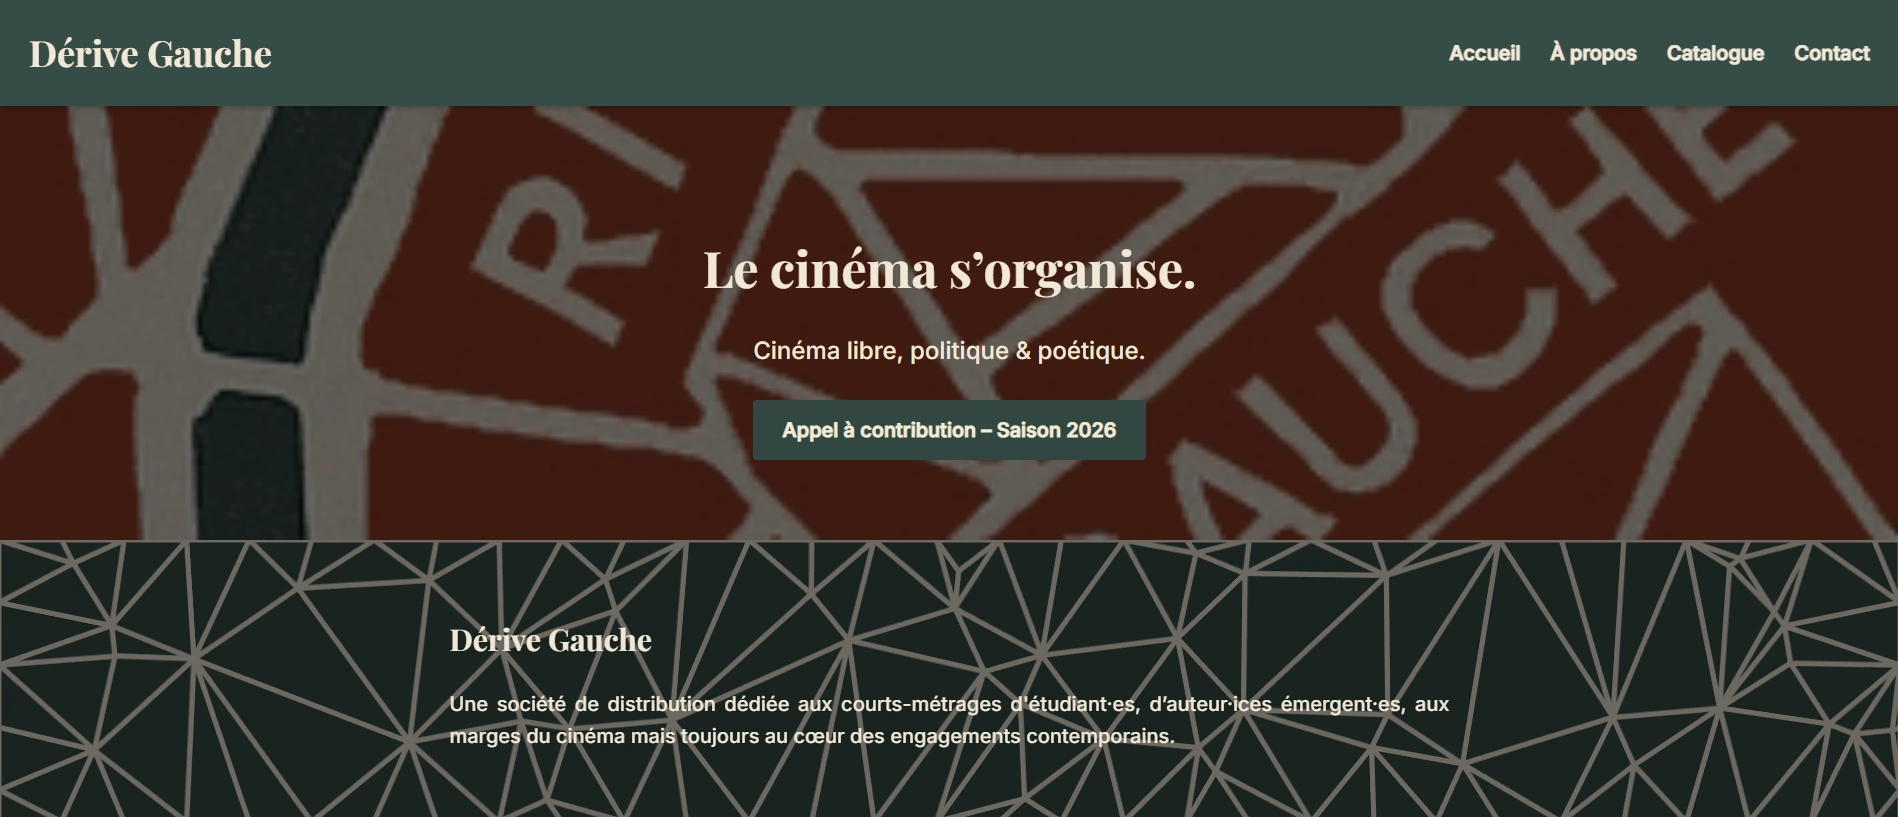
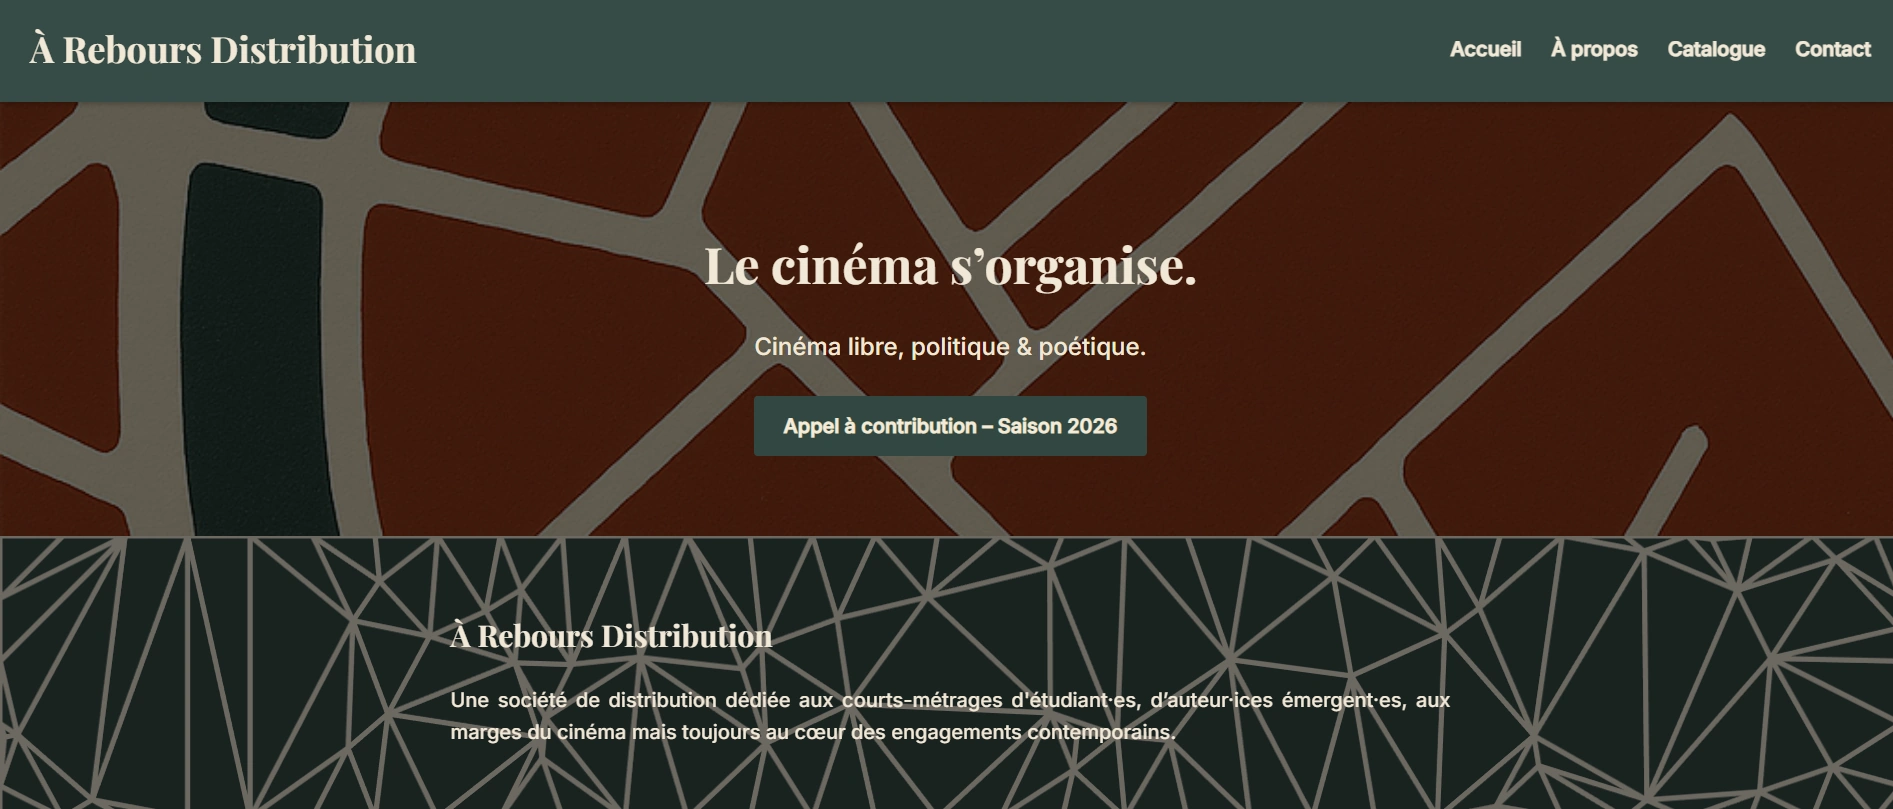
Add files via upload

diff --git a/articles/about/about.html b/articles/about/about.html
@@ -9,10 +9,15 @@
   <meta name="robots" content="index, follow">
   <meta name="keywords" content="À Rebours Distribution, à propos, distribution, court métrage, indépendant">
   <meta name="description" content="Nous accompagnons des courts-métrages issus des marges du cinéma : réalisés par des étudiant·es, des autodidactes et des formes hybrides. Parce que le cinéma ne doit pas attendre la validation des institutions pour vivre, parce que la poésie peut être engagée, et parce que l’engagement a lui aussi sa place dans l’image.">
-  
+
   <link rel="stylesheet" href="../../style/style.css">
   <link rel="stylesheet" href="../../style/mosaic.css">
 
+  <link rel="shortcut icon" type="image/png" href="../../img/favicon.ico"/>
+  <link rel="shortcut icon" href="../../img/favicon.ico" type="image/x-icon">
+  <link rel="icon" href="../../img/favicon.png" type="image/png">
+  <link rel="icon" sizes="32x32" href="../../img/favicon-32.png" type="image/png">
+  <link rel="icon" sizes="96x96" href="../../img/favicon-96.png" type="image/png">
 
   <script type="text/javascript" src="../../js/reveal.js"></script>
   <script type="text/javascript" src="../../js/script.js"></script>

diff --git a/index.html b/index.html
@@ -12,6 +12,12 @@
   <meta name="description" content="À Rebours Distribution est une société de distribution indépendante qui fait le choix des marges. Nous accompagnons les courts-métrages d'étudiant·es, de jeunes cinéastes autodidactes ou issus de parcours alternatifs.">
   <meta property="og:image" content="img/banner.webp">
 
+  <link rel="shortcut icon" type="image/png" href="img/favicon.ico"/>
+  <link rel="shortcut icon" href="img/favicon.ico" type="image/x-icon">
+  <link rel="icon" href="img/favicon.png" type="image/png">
+  <link rel="icon" sizes="32x32" href="img/favicon-32.png" type="image/png">
+  <link rel="icon" sizes="96x96" href="img/favicon-96.png" type="image/png">
+
 
   <link rel="stylesheet" href="style/style.css">
   <link rel="stylesheet" href="style/mosaic.css">
@@ -44,6 +50,11 @@
     </nav>
     </div>
 
+    <style>
+      .hero {
+        background-image: url('img/logo.png');
+      }
+    </style>
 
     <div class="hero" id="hero">
       <h2 class="reveal">Le cinéma s’organise.</h2>

diff --git a/articles/contact/contact.html b/articles/contact/contact.html
@@ -13,6 +13,12 @@
   <link rel="stylesheet" href="../../style/style.css">
   <link rel="stylesheet" href="../../style/mosaic.css">
 
+  <link rel="shortcut icon" type="image/png" href="../../img/favicon.ico"/>
+  <link rel="shortcut icon" href="../../img/favicon.ico" type="image/x-icon">
+  <link rel="icon" href="../../img/favicon.png" type="image/png">
+  <link rel="icon" sizes="32x32" href="../../img/favicon-32.png" type="image/png">
+  <link rel="icon" sizes="96x96" href="../../img/favicon-96.png" type="image/png">
+
   <script type="text/javascript" src="../../js/reveal.js"></script>
   <script type="text/javascript" src="../../js/script.js"></script>
   <script src="../../js/delaunator.min.js"></script>

diff --git a/articles/presse/presse.html b/articles/presse/presse.html
@@ -13,6 +13,12 @@
   <link rel="stylesheet" href="../../style/style.css">
   <link rel="stylesheet" href="../../style/mosaic.css">
 
+  <link rel="shortcut icon" type="image/png" href="../../img/favicon.ico"/>
+  <link rel="shortcut icon" href="../../img/favicon.ico" type="image/x-icon">
+  <link rel="icon" href="../../img/favicon.png" type="image/png">
+  <link rel="icon" sizes="32x32" href="../../img/favicon-32.png" type="image/png">
+  <link rel="icon" sizes="96x96" href="../../img/favicon-96.png" type="image/png">
+
   <script type="text/javascript" src="../../js/reveal.js"></script>
   <script type="text/javascript" src="../../js/script.js"></script>
   <script src="../../js/delaunator.min.js"></script>

diff --git a/articles/policy/policy.html b/articles/policy/policy.html
@@ -14,6 +14,12 @@
   <script src="../../js/delaunator.min.js"></script>
   <script type="text/javascript" src="../../js/triangles.js"></script>
 
+  <link rel="shortcut icon" type="image/png" href="../../img/favicon.ico"/>
+  <link rel="shortcut icon" href="../../img/favicon.ico" type="image/x-icon">
+  <link rel="icon" href="../../img/favicon.png" type="image/png">
+  <link rel="icon" sizes="32x32" href="../../img/favicon-32.png" type="image/png">
+  <link rel="icon" sizes="96x96" href="../../img/favicon-96.png" type="image/png">
+
 
   <link href="https://fonts.googleapis.com/css2?family=Inter:wght@300;500&family=Playfair+Display:wght@700&display=swap" rel="stylesheet">
 </head>

diff --git a/articles/saison/2026.html b/articles/saison/2026.html
@@ -19,6 +19,12 @@
   <script src="../../js/delaunator.min.js"></script>
   <script type="text/javascript" src="../../js/triangles.js"></script>
 
+  <link rel="shortcut icon" type="image/png" href="../../img/favicon.ico"/>
+  <link rel="shortcut icon" href="../../img/favicon.ico" type="image/x-icon">
+  <link rel="icon" href="../../img/favicon.png" type="image/png">
+  <link rel="icon" sizes="32x32" href="../../img/favicon-32.png" type="image/png">
+  <link rel="icon" sizes="96x96" href="../../img/favicon-96.png" type="image/png">
+
 
   <link href="https://fonts.googleapis.com/css2?family=Inter:wght@300;500&family=Playfair+Display:wght@700&display=swap" rel="stylesheet">
 </head>

diff --git a/articles/manifeste/manifeste.html b/articles/manifeste/manifeste.html
@@ -14,6 +14,11 @@
   <link rel="stylesheet" href="../../style/style.css">
   <link rel="stylesheet" href="../../style/mosaic.css">
 
+  <link rel="shortcut icon" type="image/png" href="../../img/favicon.ico"/>
+  <link rel="shortcut icon" href="../../img/favicon.ico" type="image/x-icon">
+  <link rel="icon" href="../../img/favicon.png" type="image/png">
+  <link rel="icon" sizes="32x32" href="../../img/favicon-32.png" type="image/png">
+  <link rel="icon" sizes="96x96" href="../../img/favicon-96.png" type="image/png">
 
   <script type="text/javascript" src="../../js/reveal.js"></script>
   <script type="text/javascript" src="../../js/script.js"></script>

diff --git a/style/style.css b/style/style.css
@@ -174,7 +174,6 @@ a {
 .hero {
   text-align: center;
   padding: 4rem 2rem;
-  background-image: url('background.jpg');
   background-size: cover;
   background-position: center;
   background-blend-mode: multiply;
